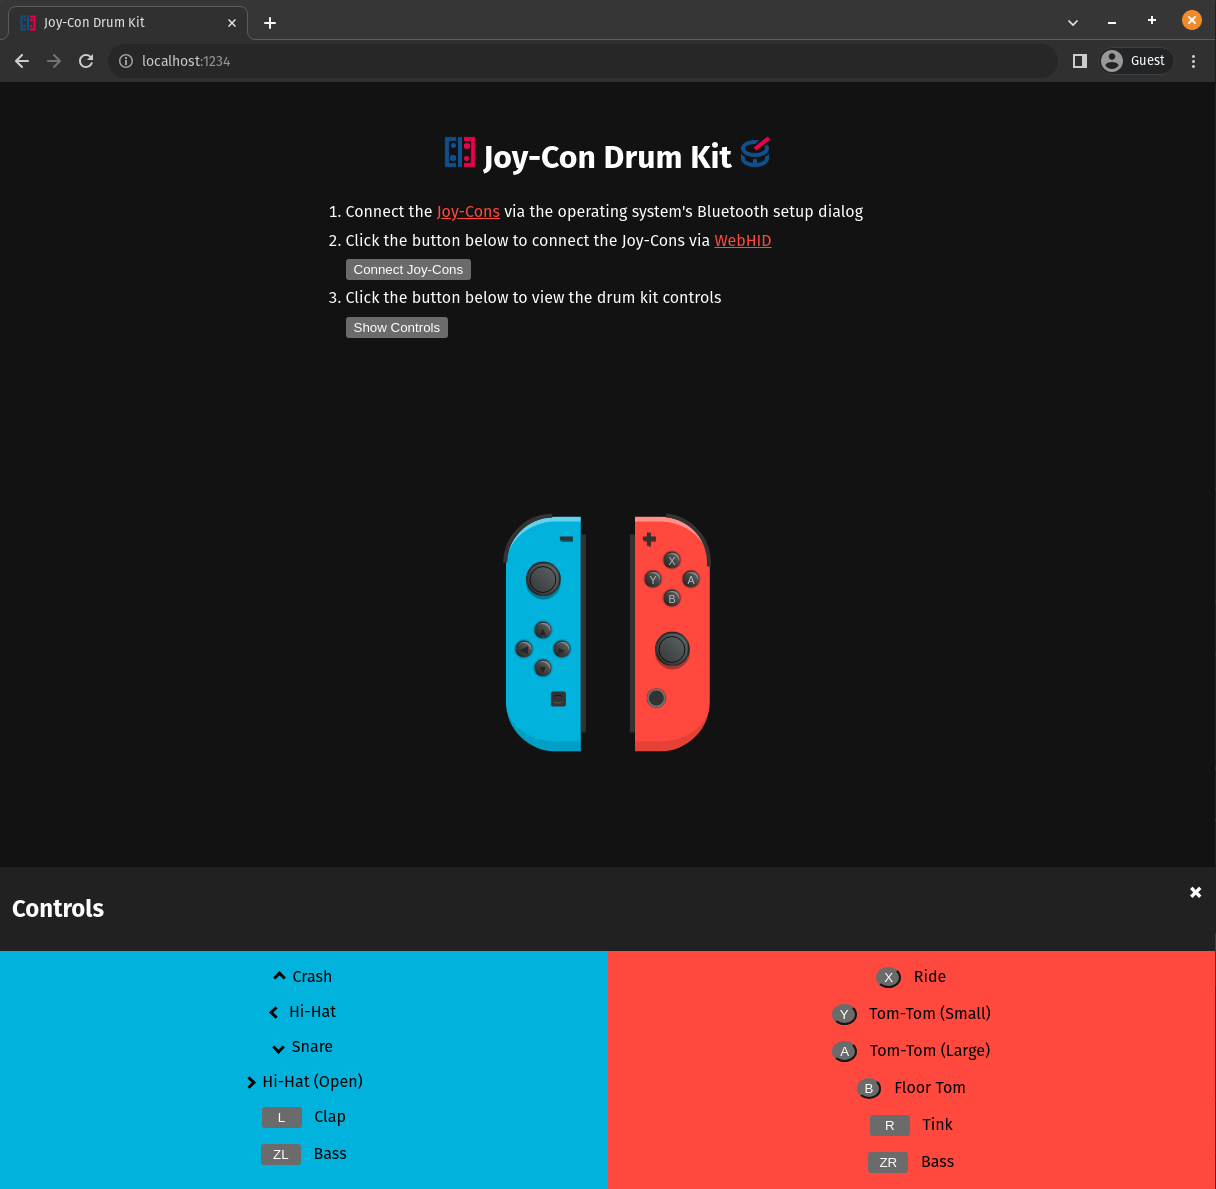
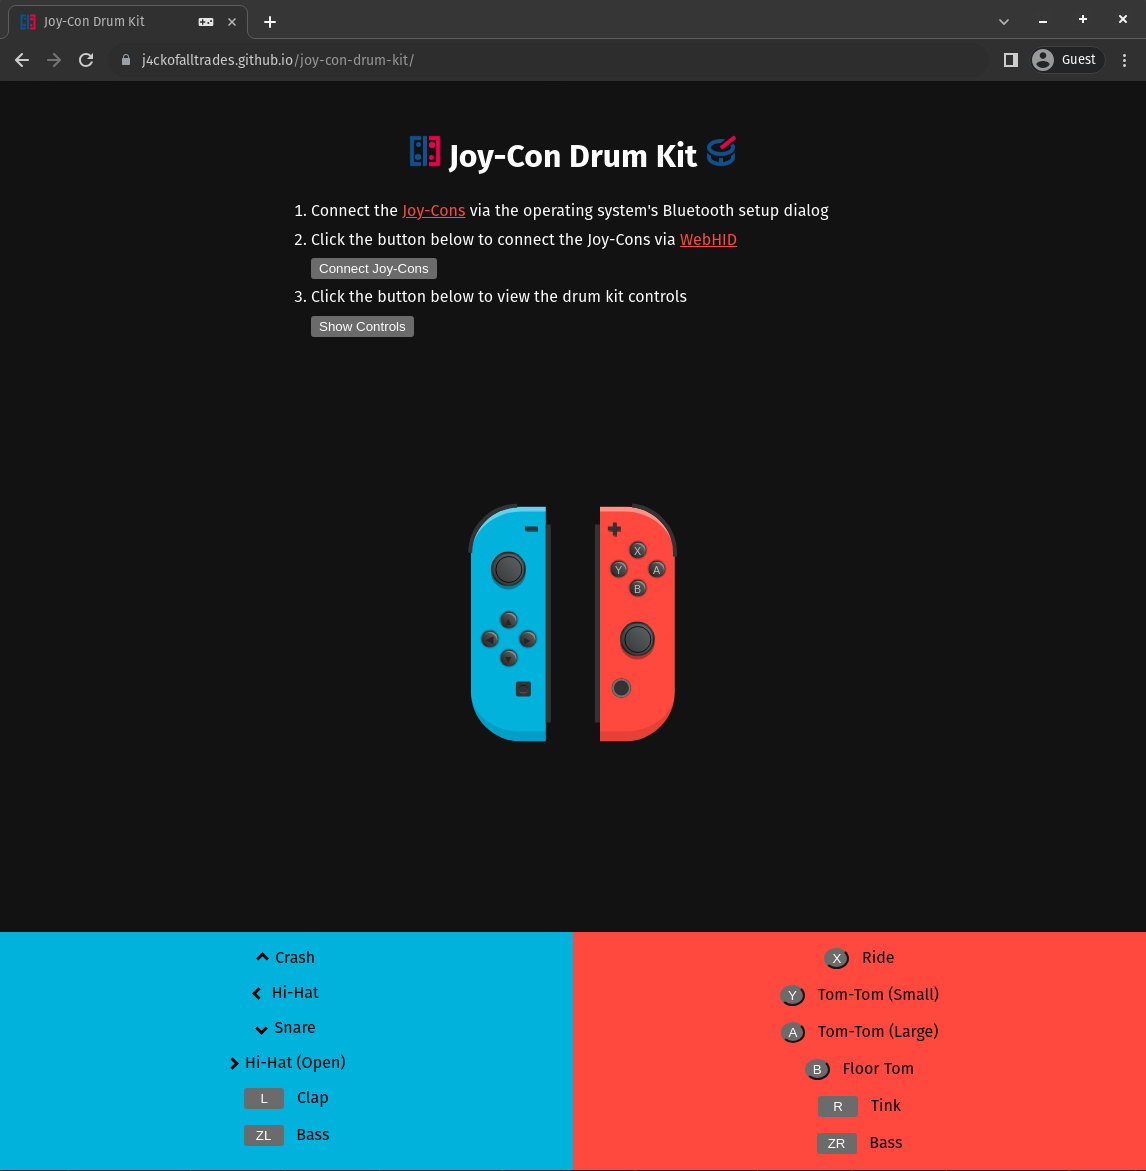
Remove controls modal header

diff --git a/src/index.html b/src/index.html
@@ -29,9 +29,9 @@
         </div>
       </li>
       <li>
-        Click the button below to view the drum kit controls
+        Click the button below to toggle the drum kit controls
         <div>
-          <button id="btn-controls" type="button">Show Controls</button>
+          <button id="btn-controls" type="button">Toggle Controls</button>
         </div>
       </li>
     </ol>
@@ -66,10 +66,6 @@
     <div id="controls" class="modal">
       <div class="modal-content">
         <div class="modal-body">
-          <div class="modal-header">
-            <span class="close">&times;</span>
-            <h2>Controls</h2>
-          </div>
           <div class="row">
             <div class="left-joycon-ctrl column">
               <p><i class="arrow up"></i>&nbsp;&nbsp;Crash</p>

diff --git a/src/styles/controls.css b/src/styles/controls.css
@@ -13,12 +13,6 @@
   animation-duration: 0.4s;
 }
 
-.modal-header {
-  padding: 8px 12px;
-  background-color: #212121;
-  color: #fefefe;
-}
-
 .modal-body {
   color: #000;
 }
@@ -31,20 +25,6 @@
   -webkit-animation-duration: 0.4s;
   animation-name: slideIn;
   animation-duration: 0.4s;
-}
-
-.close {
-  color: #fff;
-  float: right;
-  font-size: 28px;
-  font-weight: bold;
-}
-
-.close:hover,
-.close:focus {
-  color: #ff493e;
-  text-decoration: none;
-  cursor: pointer;
 }
 
 @-webkit-keyframes slideIn {

diff --git a/README.md b/README.md
@@ -1,6 +1,6 @@
 # Joy-Con Drum Kit
 
-A simple web app that uses `Joy-Con`s as drum kit controllers (connected via [WebHID](https://web.dev/hid)).
+A drum kit web app that uses Nintendo Joy-Cons as controllers (connected via [WebHID](https://web.dev/hid)).
 
 > [!NOTE]
 > WebHID is currently only supported on Chromium-based browsers e.g. Chrome, Edge, etc.
@@ -8,6 +8,8 @@ A simple web app that uses `Joy-Con`s as drum kit controllers (connected via [We
 ## Demo
 
 ![demo](assets/joy-con-drum-kit.png)
+
+[![Joy-Con Drum Kit Demo](https://img.youtube.com/vi/pzw6PiM772w/maxresdefault.jpg)](https://www.youtube.com/watch?v=pzw6PiM772w)
 
 ## Pre-requisites
 
@@ -34,15 +36,10 @@ If you are running __Linux__, you need to perform the following steps.
 
 ## Quickstart
 
-Launch the app locally with `pnpm run start`.
+Launch the app locally with `pnpm install --frozen-lockfile` and `pnpm run start`.
 
 ## Attribution
 
 - [Joy-Con WebHID](https://github.com/tomayac/joy-con-webhid) Driver
 - Joy-Con models by [Stix](https://codepen.io/stix/details/WRoweX#input_1604658346501:~:text=License)
 - Icons by [Icons8](https://icons8.com)
-
-### TODO
-
-- [ ] Configure CI/CD with GitHub actions
-- [ ] Deploy app
